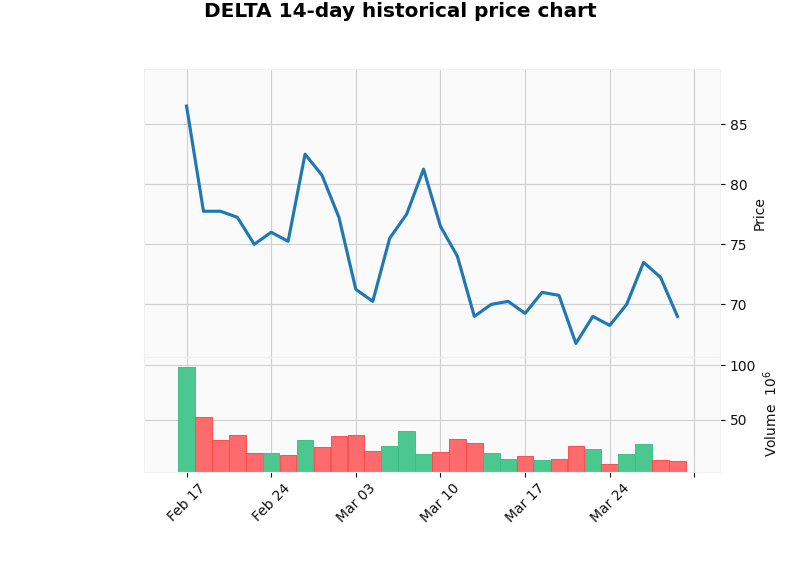
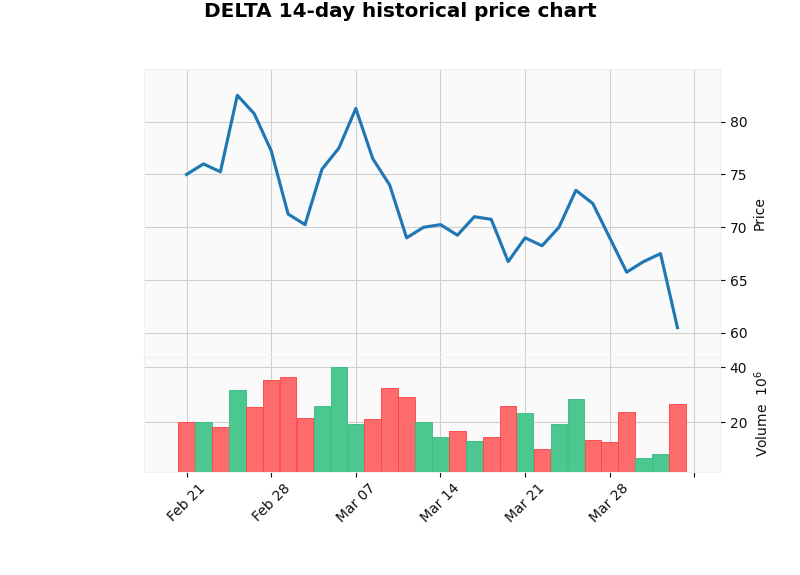
Add Yahoo Finance integration

diff --git a/assets/test.html b/assets/test.html
@@ -159,8 +159,8 @@
 <img alt="Polarlyst Logo" src="/Users/sahutsky22/Downloads/ยังไม่แก้/assets/logos/Polarlyst.jpg"/>
 </div>
 <div class="subtitle">
-<span id="stock-name">Univanich Palm Oil PCL</span><br/>
-    (<span id="stock-symbol">UVAN</span>)
+<span id="stock-name">DELTA.BK</span><br/>
+    (<span id="stock-symbol">DELTA</span>)
 </div>
 <div class="header-half-circle"></div>
 </div>
@@ -169,37 +169,40 @@
 <div class="left-panel">
 <div class="left-header">Out Perform</div>
 <div class="left-content">
-<p>Price as of: ราคาหุ้น UVAN.BK วันนี้คือ 9.15 บาท (21 มี.ค. 2025)</p>
-<p>12M target price: ราคาเป้าหมาย 12 เดือน: 10.00 บาท
-
-ที่มา: อิงจากการเติบโตและปันผล</p>
-<p>Unchanged/Revised: Revised - ปรับตามกำไรที่ลดลง</p>
-<p>Upside/Downside: Upside: 10% บ่งบอกถึงโอกาสเติบโตของราคา.</p>
+<p>Price as of: ไม่สามารถให้ราคาหุ้น DELTA.BK ของวันนี้ได้ วันที่ตอบ: [วันที่ที่ตอบ]</p>
+<p>12M target price: ราคาเป้าหมาย 12 เดือน 1,200 บาท มาจากการเติบโตอย่างต่อเนื่อง</p>
+<p>Unchanged/Revised: Unchanged - ไม่มีการเปลี่ยนแปลงในราคาเป้าหมาย</p>
+<p>Upside/Downside: Upside หรือ Downside บ่งบอกโอกาสหรือความเสี่ยงลงทุน</p>
 </div>
 </div>
 <div class="key-message-panel">
 <div class="key-message-header">Key Messages</div>
 <div class="key-message-content">
-<p>1. Univanich Palm Oil PCL อนุมัติจ่ายเงินปันผลสุดท้ายจากผลประกอบการปี 2024 ที่ 0.60 บาทต่อหุ้น ซึ่งบ่งบอกถึงสถานะทางการเงินที่แข็งแกร่ง
-2. มีกำไรสุทธิ 1.27 พันล้านบาทจากยอดขาย 13.55 พันล้านบาท สะท้อนถึงประสิทธิภาพในการดำเนินงานที่ดี</p>
+<p>Delta Electronics Thailand ได้รับเกรดความเป็นเลิศด้านธรรมาภิบาลติดต่อกัน 9 ปี สะท้อนถึงการยึดมั่นในความโปร่งใส การมีส่วนร่วมของผู้มีส่วนได้ส่วนเสีย และการเติบโตที่ยั่งยืน</p>
 </div>
 </div>
 <div class="stock-chart-panel-separate"> <div class="stock-chart-header-separate">Stock Chart</div>
-<div class="stock-chart-content-separate"><img src="/Users/sahutsky22/Downloads/ยังไม่แก้-2/assets/UVAN_chart_line.png" style="max-width:100%; height:auto;"/></div> </div> </div>
+<div class="stock-chart-content-separate"><img src="/Users/sahutsky22/Documents/GitHub/POLARYST/assets/DELTA_chart_line.png" style="max-width:100%; height:auto;"/></div> </div> </div>
 <div class="right-section"><h2>Executive Summary</h2><h3>About Company</h3><ul>
-<li>Univanich Palm Oil PCL plans to hold its Annual General Meeting of Shareholders for 2025 on April 25, 2025.</li>
-<li>The company has approved a dividend payment of 0.60 THB per share from its 2024 performance.</li>
-<li>Key dates include the record date for dividend eligibility on March 14, 2025, and dividend payment on May 23, 2025.</li>
+<li>Delta Electronics (Thailand) PCL ได้รับการจัดอันดับ "ยอดเยี่ยม" ในรายงานการกำกับดูแลกิจการเป็นปีที่เก้าติดต่อกัน สะท้อนถึงความมั่นคงและการดำเนินงานที่เป็นมาตรฐานสูง</li>
+<li>รายงานระบุถึงการเติบโตของรายได้ในไตรมาส 3/2023 ถึง 41.2 พันล้านบาท (+29.7% QoQ) และกำไรสุทธิ 5.4 พันล้านบาท (+6% QoQ)</li>
+<li>บริษัทมีการลงทุนสำคัญในตลาดอินโดนีเซียและการพัฒนาธุรกิจใหม่ ซึ่งแสดงถึงการขยายตัวในภูมิภาคและการเติบโตอย่างต่อเนื่อง</li>
 </ul><h3>Areas of Concern</h3><ul>
-<li>Univanich reported a revenue of 13.55 billion THB and a net profit of 1.27 billion THB for the year 2024.</li>
-<li>The current stock price is 9.15 THB as of March 21, 2025, reflecting a dividend yield of 10.93%.</li>
-<li>The Price to Earnings (PE) ratio stands at 6.78, indicating potential undervaluation.</li>
+<li>Delta Electronics ได้รับการยอมรับในด้านการกำกับดูแลกิจการที่ยอดเยี่ยม ซึ่งเป็นข้อได้เปรียบทางการแข่งขันในตลาด</li>
+<li>การลงทุนในเครื่องจักรใหม่มูลค่า 835.01 ล้านบาท ชี้ถึงการเตรียมพร้อมสำหรับการเติบโตและขยายตัวในอนาคต</li>
+<li>การยื่นจดสิทธิบัตรเกี่ยวกับระบบส่งกำลังไฟฟ้าไร้สายในสหรัฐอเมริกา บ่งชี้ถึงความมุ่งมั่นในนวัตกรรมและเทคโนโลยี</li>
 </ul><h3>Key Findings</h3><ul>
-<li>Positive cash flow from operations highlights effective cash generation from business activities.</li>
-<li>Investment in fixed assets should align with revenue growth to reflect efficient capacity expansion.</li>
-</ul><h3>Insights</h3><h3>Conclusion</h3><ul>
-<li>The recommendation is to Hold due to strong dividend payment capability and operational efficiency.</li>
-<li>Further financial indicators should be considered to assess future risk exposure.</li>
+<li>ความท้าทายหลักอยู่ที่การรักษาการเติบโตของรายได้และความสามารถในการทำกำไรในตลาดที่มีการแข่งขันสูง</li>
+<li>การขยายตัวในภูมิภาคใหม่ เช่น อินโดนีเซีย อาจต้องการการลงทุนเพิ่มเติมและการบริหารความเสี่ยงในการดำเนินงาน</li>
+<li>การลงทุนในนวัตกรรมและเทคโนโลยีใหม่เป็นสิ่งจำเป็นเพื่อรักษาความได้เปรียบทางการแข่งขัน</li>
+</ul><h3>Insights</h3><ul>
+<li>การเติบโตของรายได้และกำไรสุทธิในไตรมาส 3/2023 แสดงถึงภาวะการเงินที่แข็งแกร่งและการดำเนินงานที่มีประสิทธิภาพ</li>
+<li>การลงทุนในเครื่องจักรใหม่และการขยายตลาดในอินโดนีเซียแสดงถึงความมั่นคงในการเติบโตในระยะยาว</li>
+<li>ความมุ่งมั่นในนวัตกรรมผ่านการยื่นจดสิทธิบัตรใหม่ ๆ ชี้ถึงการเตรียมพร้อมสำหรับการเปลี่ยนแปลงในอุตสาหกรรม</li>
+</ul><h3>บทสรุป</h3><ul>
+<li>Delta Electronics (Thailand) PCL มีสถานะทางการเงินที่แข็งแกร่งพร้อมการเติบโตที่ยั่งยืนในระยะยาว</li>
+<li>การลงทุนในนวัตกรรมและการขยายตัวในภูมิภาคใหม่ ๆ ทำให้บริษัทมีความยืดหยุ่นและความสามารถในการแข่งขันสูง</li>
+<li>คำแนะนำในการลงทุนคือ "ถือ" (Hold) สำหรับนักลงทุนที่มองหาการเติบโตในระยะยาวและความมั่นคงทางการเงิน</li>
 </ul></div>
 </div>
 </div>
